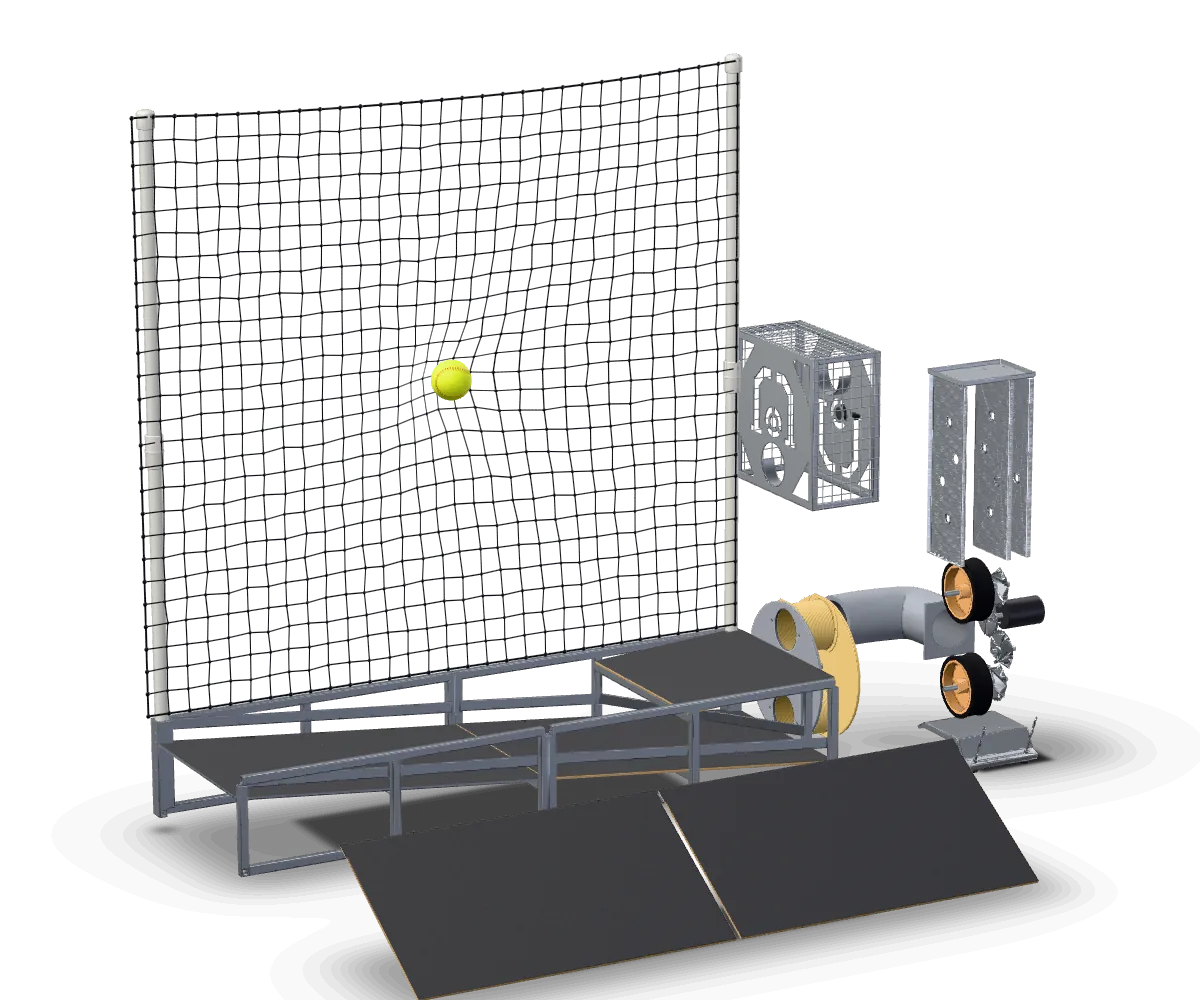
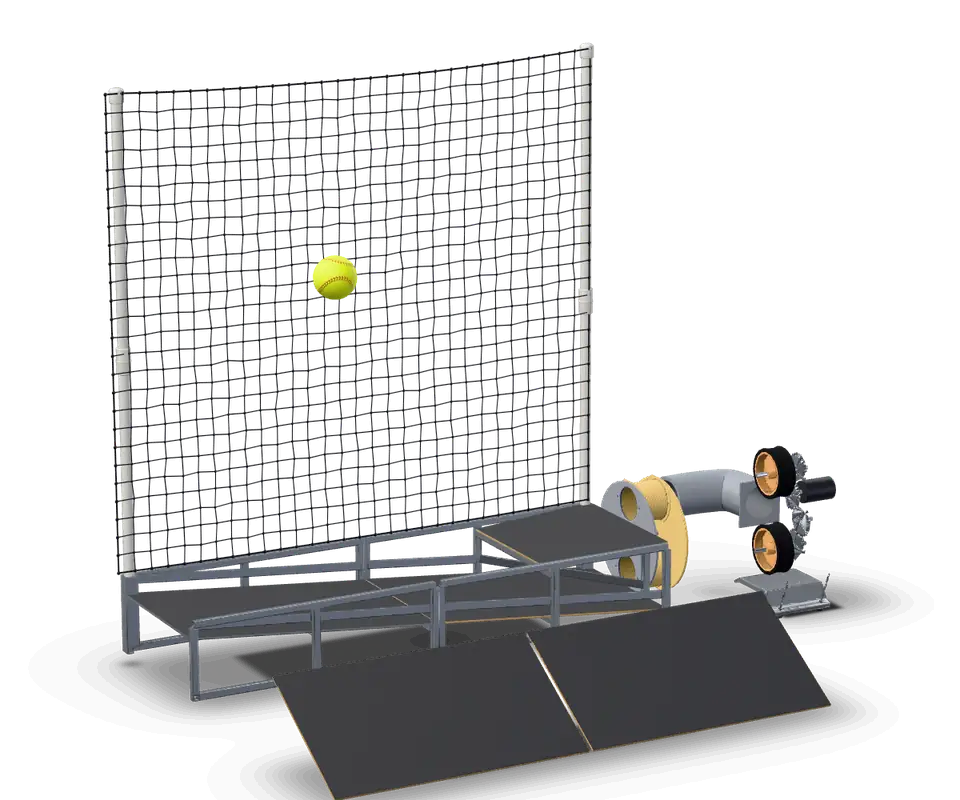
Work in progress: Vireo polish and Batterymate review fixes
Claude-Session: https://claude.ai/code/session_01CEbbDhhfzdpcoGhjMFhyie

Changed region(s): [[0.1562, 0.0625, 0.875, 0.7188], [0.6875, 0.7188, 0.7812, 0.75]]

diff --git a/studies/batterymate/index.html b/studies/batterymate/index.html
@@ -109,19 +109,19 @@
         <span class="step__no display" aria-hidden="true"><span class="line"><span class="outline">01</span></span></span>
         <h3 class="step__verb display"><span class="line"><span class="fill">Catch.</span></span></h3>
         <p class="step__say">The feeder is a rotating dual chamber that catches the ball.</p>
-        <img class="step__still" src="assets/step-catch.webp" width="1200" height="1000" loading="lazy" decoding="async" alt="The machine with its feeder cage lifted off. A ball has dropped off the net and rolls down the bed toward the chamber.">
+        <img class="step__still" src="assets/step-catch.webp" width="960" height="800" loading="lazy" decoding="async" alt="The machine with its feeder cage off. A ball flies into the net.">
       </li>
       <li class="step">
         <span class="step__no display" aria-hidden="true"><span class="line"><span class="outline">02</span></span></span>
         <h3 class="step__verb display"><span class="line"><span class="fill">Turn.</span></span></h3>
         <p class="step__say">The chamber rotates 180 degrees.</p>
-        <img class="step__still" src="assets/step-turn.webp" width="1200" height="1000" loading="lazy" decoding="async" alt="Close on the feeder: the dual chamber half way through its turn, lifting the ball to the exit side.">
+        <img class="step__still" src="assets/step-turn.webp" width="960" height="800" loading="lazy" decoding="async" alt="Close on the feeder with the bed slid back: the dual chamber most of the way through its half turn, carrying the ball up, with an arrow marking the turn.">
       </li>
       <li class="step">
         <span class="step__no display" aria-hidden="true"><span class="line"><span class="outline">03</span></span></span>
         <h3 class="step__verb display"><span class="line"><span class="fill">Return.</span></span></h3>
         <p class="step__say">It hands the ball to the return flywheel, driven by a 120 W DC motor.</p>
-        <img class="step__still" src="assets/step-return.webp" width="1200" height="1000" loading="lazy" decoding="async" alt="Close on the thrower with its plates lifted: the ball leaves between the two flywheels.">
+        <img class="step__still" src="assets/step-return.webp" width="960" height="800" loading="lazy" decoding="async" alt="The ball leaves the two flywheels and flies back out in front of the net.">
       </li>
     </ol>
     <div class="how__window" id="howBox">
@@ -159,17 +159,17 @@
   </header>
   <ol class="drills">
     <li class="drill">
-      <img src="assets/draw-carry.webp" width="1200" height="900" loading="lazy" decoding="async" alt="Line drawing of the whole machine, assembled.">
+      <img src="assets/draw-carry.webp" width="1000" height="750" loading="lazy" decoding="async" alt="Line drawing of the whole machine, assembled.">
       <h3 class="drill__verb"><i aria-hidden="true">01</i>Carry it.</h3>
       <p>It weighs 55 lb. One person carries it.</p>
     </li>
     <li class="drill">
-      <img src="assets/draw-setup.webp" width="1200" height="900" loading="lazy" decoding="async" alt="Line drawing of the machine taken apart, every part pulled out along its own line: net, bed, ramps, feeder and thrower.">
+      <img src="assets/draw-setup.webp" width="1000" height="750" loading="lazy" decoding="async" alt="Line drawing of the machine taken apart, every part pulled out along its own line: net, bed, ramps, feeder and thrower.">
       <h3 class="drill__verb"><i aria-hidden="true">02</i>Set it up.</h3>
       <p>It assembles with no tools. Leave the toolbox at home.</p>
     </li>
     <li class="drill">
-      <img src="assets/draw-run.webp" width="1200" height="900" loading="lazy" decoding="async" alt="Line drawing of the whole machine at work: a ball leaves the two wheel thrower on a dotted arc.">
+      <img src="assets/draw-run.webp" width="1000" height="750" loading="lazy" decoding="async" alt="Line drawing of the whole machine at work: a ball leaves the two wheel thrower on a dotted arc.">
       <h3 class="drill__verb"><i aria-hidden="true">03</i>Run it.</h3>
       <p>A wireless remote starts and stops it. One battery runs it for 1.5 hours.</p>
     </li>

diff --git a/studies/vireo/js/vireo.js b/studies/vireo/js/vireo.js
@@ -164,13 +164,18 @@ function setInsideUI(p) {
   caps.forEach((c, i) => rise(c, band(INSIDE_UI.caps[i], p)));
   const a = stageLive ? band(INSIDE_UI.chip, p) : 0;
   chip.style.opacity = a.toFixed(3); chip.style.visibility = a > 0 ? 'visible' : 'hidden';
-  // the model fades and steps back before the stage lets go of it
-  const [o0, o1] = INSIDE_UI.out, out = clamp01((p - o0) / (o1 - o0));
-  stage.style.setProperty('--out', out.toFixed(3));
+
   pin.classList.toggle('can-turn', stageLive && p >= TURN_FROM);
 }
 const insideProgress = () => { const r = inside.getBoundingClientRect(); return clamp01(-r.top / Math.max(1, r.height - vh())); };
 if (!isStatic()) { const f = () => { if (!stageLive) setInsideUI(insideProgress()); }; onScroll.add(f); f(); }
+// The release: the assembled rocket stays on stage after the pin lets go and rides up with it under the light
+// section, which comes in like a curtain; it fades and steps back as the curtain rises (no empty black screen).
+if (!isStatic()) {
+  const [o0, o1] = INSIDE_UI.out;
+  const out = () => { const after = (innerHeight - inside.getBoundingClientRect().bottom) / innerHeight; $('.film').style.setProperty('--out', clamp01((after - o0) / (o1 - o0)).toFixed(3)); };   // the stage and the chip read it
+  onScroll.add(out); onResize.add(out); out();
+}
 
 // ------------------------------------------------------------------ the short version: a gallery that snaps and advances
 {

diff --git a/studies/vireo/css/vireo.css b/studies/vireo/css/vireo.css
@@ -178,6 +178,7 @@ html:not(.js) .bar, html:not(.js) .study-back.study-back--vireo { position: abso
 .cap__text { margin-top: 8px; font-size: clamp(24px, 2.1vw, 28px); line-height: 1.18; font-weight: 600; letter-spacing: -.012em; text-wrap: pretty; }
 .chip { position: absolute; left: 50%; bottom: 13vh; translate: -50% 0; display: inline-flex; align-items: center; gap: 8px; min-height: 40px; padding: 0 18px 0 14px; font-size: 14px; font-weight: 500; opacity: 0; visibility: hidden; cursor: inherit; }
 .chip svg { width: 18px; height: 18px; }
+.chip { filter: opacity(calc(1 - var(--out, 0))); }     /* leaves with the model at the release */
 .chip:focus-visible { border-radius: 980px; }
 .inside__still { display: none; }
 

diff --git a/studies/vireo/js/poses.js b/studies/vireo/js/poses.js
@@ -72,8 +72,8 @@ export const FILM = {
 export const INSIDE_UI = {
   title: [-0.2, -0.08, 0.06, 0.1],
   caps: [[0.13, 0.17, 0.32, 0.36], [0.38, 0.42, 0.55, 0.59], [0.61, 0.65, 0.77, 0.81]],
-  chip: [0.82, 0.86, 0.95, 1.0],
-  out: [0.95, 1.0],                 // the model fades and steps back before the stage lets go
+  chip: [0.82, 0.86, 1.01, 1.02],
+  out: [0.05, 0.6],                 // screens past the release: the model fades and steps back as the light section rises over it
 };
 export const TURN_FROM = 0.84;     // p from which the model can be turned by hand
 
